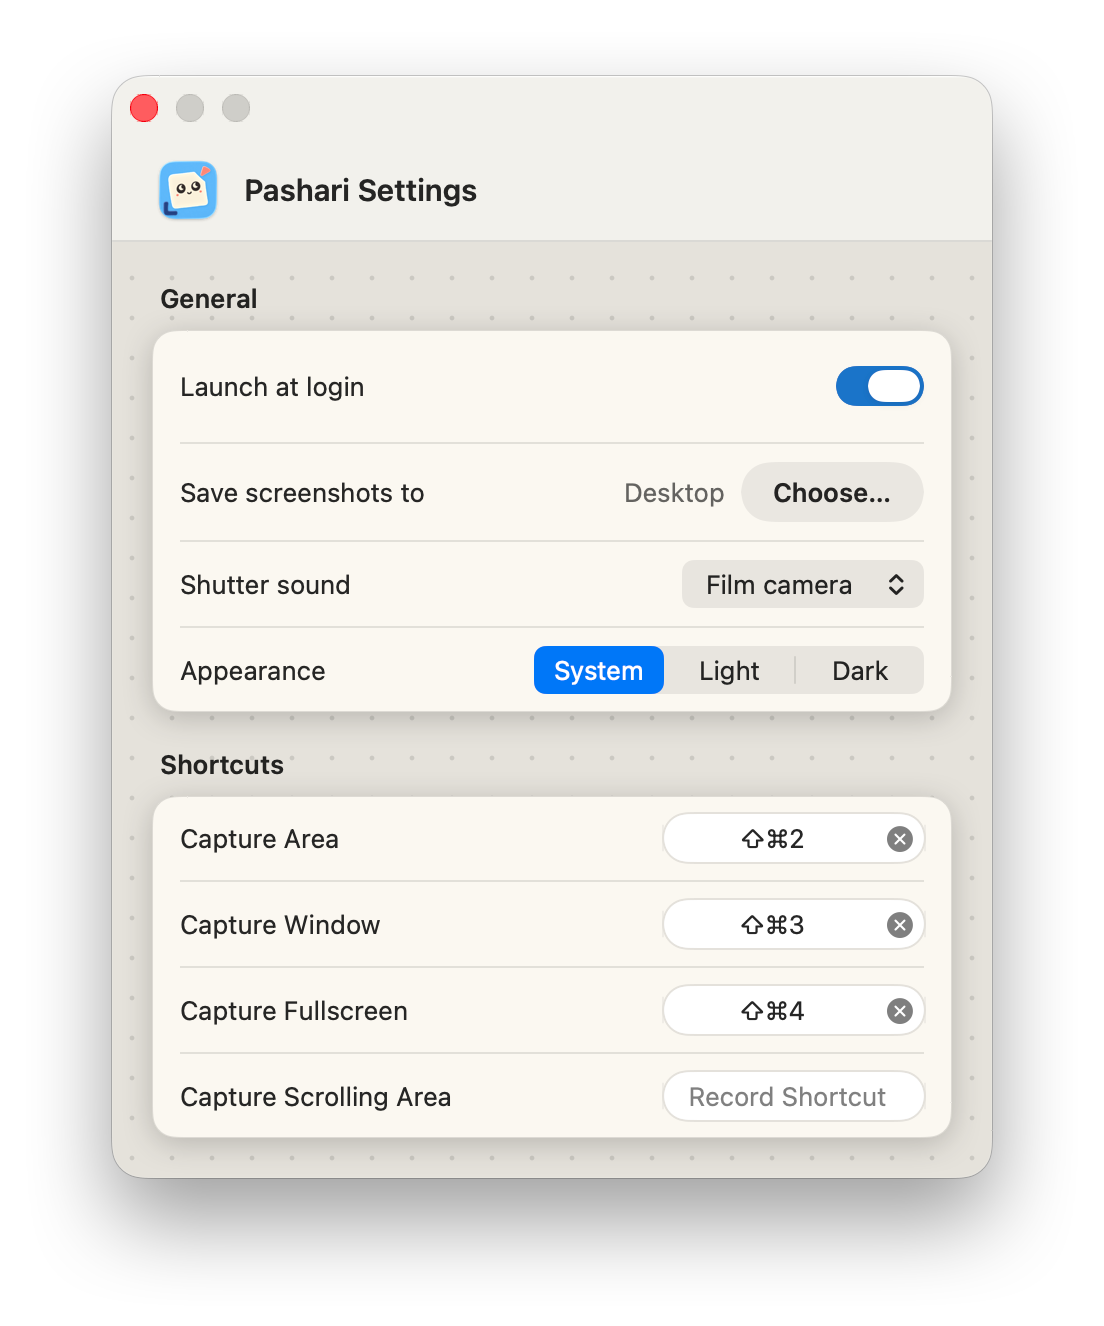
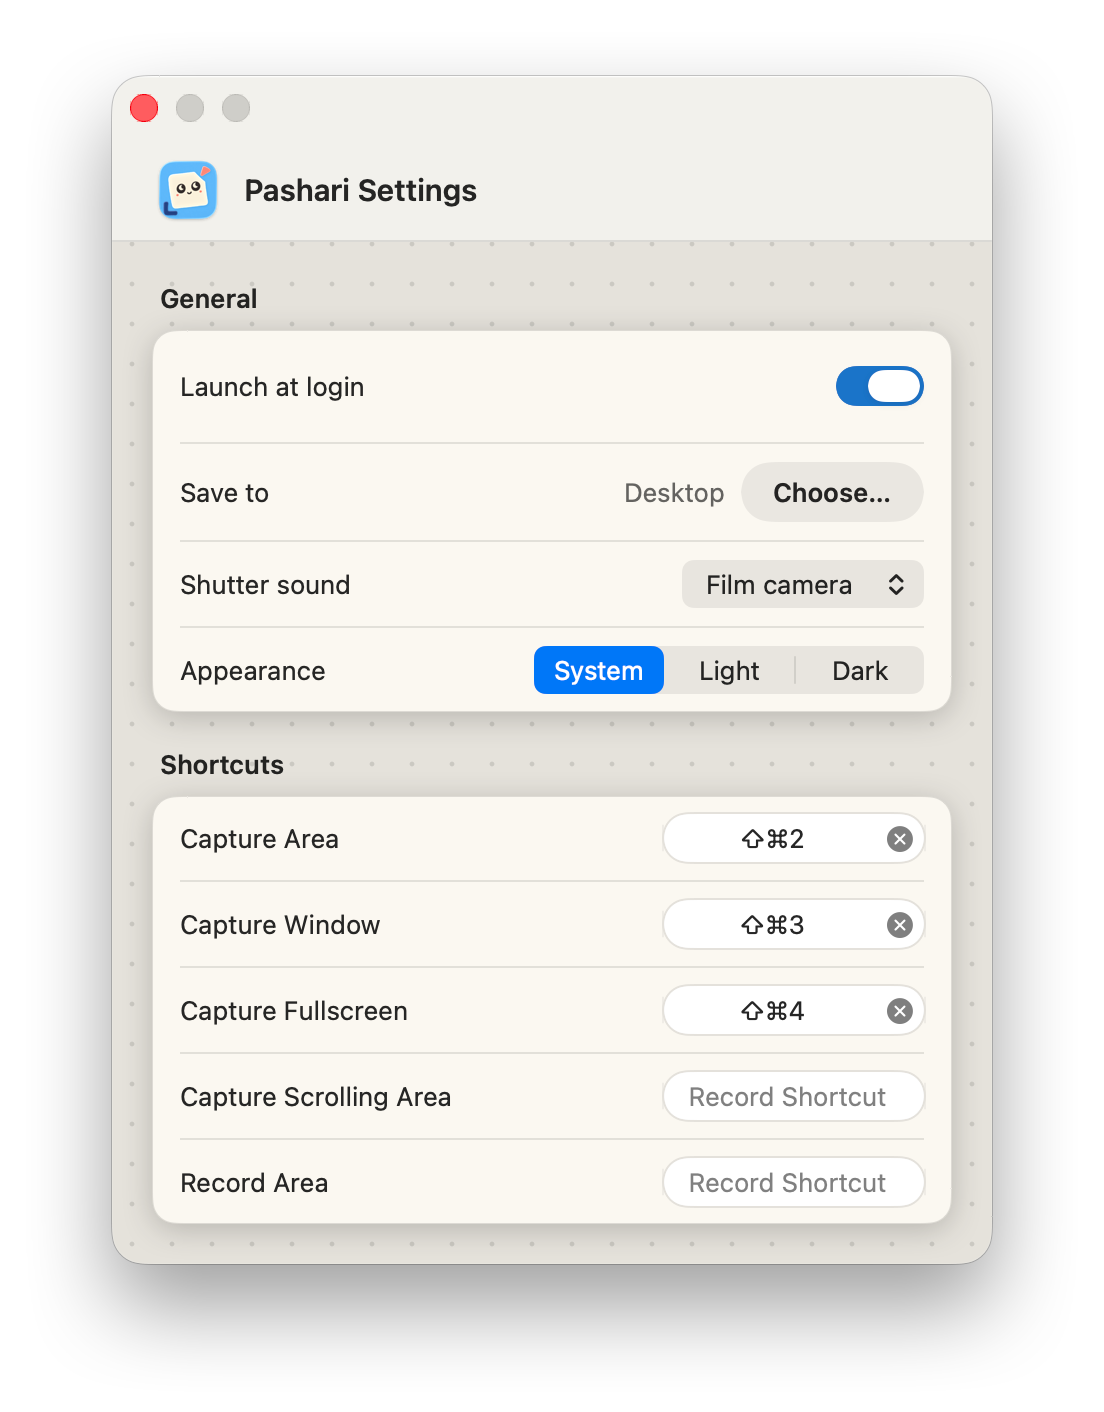
docs: describe recording an area, and show it in Settings' picture

diff --git a/README.md b/README.md
@@ -16,6 +16,9 @@ A menu bar screenshot app for macOS, written in Swift.
   global hotkeys
 - Scroll capture: pick an area, scroll its content, and get one tall
   picture of everything that scrolled past
+- Record an area as a video: adjust the frame on the live screen, record
+  up to five minutes, then trim the recording, and copy, save or drag it
+  like a screenshot
 - A film camera's shutter sound for each capture, if you want it.
   Captures are silent until you pick it under Settings
 - A floating thumbnail after each capture, like an instant photo: copy,
@@ -25,10 +28,11 @@ A menu bar screenshot app for macOS, written in Swift.
   text, numbered badges, blur, crop, with undo and redo
   - Select a mark to move or delete it
   - Hold Shift for straight lines, squares and circles
-- Saves PNG files at full Retina resolution, to the Desktop or a folder of
-  your choice
-- Names files like `pashari-20260728-bnan.png`: the date, then the time of
-  day as four letters, so sorting by name keeps them in the order taken
+- Saves PNG files, and MP4 files for recordings, at full Retina
+  resolution, to the Desktop or a folder of your choice
+- Names files like `pashari-20260728-bnan.png` (or `.mp4`): the date, then
+  the time of day as four letters, so sorting by name keeps them in the
+  order taken
 
 <p align="center">
   <img src="docs/images/editor.png" width="800" alt="The annotation editor. A screenshot of a web page lies like a print on a dotted desk, with numbered badges, a blurred email address, a box, an arrow and a label drawn on it. The tools, colours and sizes run along the top, next to Undo, Redo, Copy and Save.">
@@ -37,13 +41,13 @@ A menu bar screenshot app for macOS, written in Swift.
 Up to five thumbnails lie on the pile, as many as fit on screen when
 spread out. Older captures wait until space is available: copy, save, or
 close thumbnails to reveal them. Quitting asks for confirmation while
-screenshots remain in thumbnails or editors.
+screenshots or recordings remain in thumbnails, editors or players.
 
-Working PNGs live in a directory for each run under
+Working files live in a directory for each run under
 `~/Library/Application Support/Pashari/PendingCaptures`, which is excluded
 from Time Machine. Quitting removes that run's files. If a run is interrupted,
-Pashari offers to restore its working PNGs to the thumbnail stack, discard them,
-or leave them for a later launch.
+Pashari offers to restore its working files to the thumbnail stack, discard
+them, or leave them for a later launch.
 
 Default hotkeys (change them under Settings):
 
@@ -53,7 +57,8 @@ Default hotkeys (change them under Settings):
 | Capture window     | ⇧⌘3    |
 | Capture fullscreen | ⇧⌘4    |
 
-Capture Scrolling Area has no hotkey until you set one under Settings.
+Capture Scrolling Area and Record Area have no hotkey until you set one
+under Settings.
 
 macOS uses ⇧⌘3 and ⇧⌘4 for its own screenshots. Turn those off under
 System Settings > Keyboard > Keyboard Shortcuts > Screenshots so that
@@ -64,7 +69,7 @@ behind the notch, open Pashari again from Spotlight or the Finder and
 Settings appears.
 
 <p align="center">
-  <img src="docs/images/settings.png" width="480" alt="Pashari Settings: launch at login, the folder screenshots are saved to, the shutter sound set to Film camera, the appearance, and the hotkeys for capturing an area, a window and the full screen. Capture Scrolling Area has none yet.">
+  <img src="docs/images/settings.png" width="480" alt="Pashari Settings: launch at login, the folder captures are saved to, the shutter sound set to Film camera, the appearance, and the hotkeys for capturing an area, a window and the full screen. Capture Scrolling Area and Record Area have none yet.">
 </p>
 
 ### Scroll capture
@@ -83,6 +88,30 @@ Pashari's bar again.
 - If you scroll faster than Pashari can follow, it says so. Scroll back a
   little, and carry on more slowly.
 - The picture stops growing at 30,000 pixels (less for very wide areas).
+
+### Recording an area
+
+Choose Record Area from the menu bar icon, or press its hotkey, and drag
+a frame over the screen, which goes on as it is. Next time, the frame
+starts where your last recording was; drag elsewhere to draw a new one.
+Drag inside the frame to move it, or drag its edges and corners. Click
+Record or press Return to start; Escape cancels.
+
+While recording, your clicks, scrolls and keys go to your apps as usual.
+To stop, click Stop on the bar next to the frame, click the menu bar icon,
+which has turned into a stop button, or press the hotkey again. A
+recording stops by itself at five minutes.
+
+- The pointer is in the video, with a ring around each click (macOS 15
+  and later). There is no sound. Pashari's bar and frame stay out.
+- Recordings are MP4 (H.264) at the screen's full resolution, up to 4,096
+  pixels on the longer side; a larger area is scaled down to fit.
+- The bar shows how long the recording is, and how large its file is so
+  far.
+- In the thumbnail, Play opens the recording in a window where you can
+  trim it with the yellow handles (⌘T), undo a trim, and copy or save it.
+- Copy puts the file itself on the clipboard: paste it into Slack,
+  Messages, Finder or a browser. Pashari keeps the file until it quits.
 
 ## Installing
 
